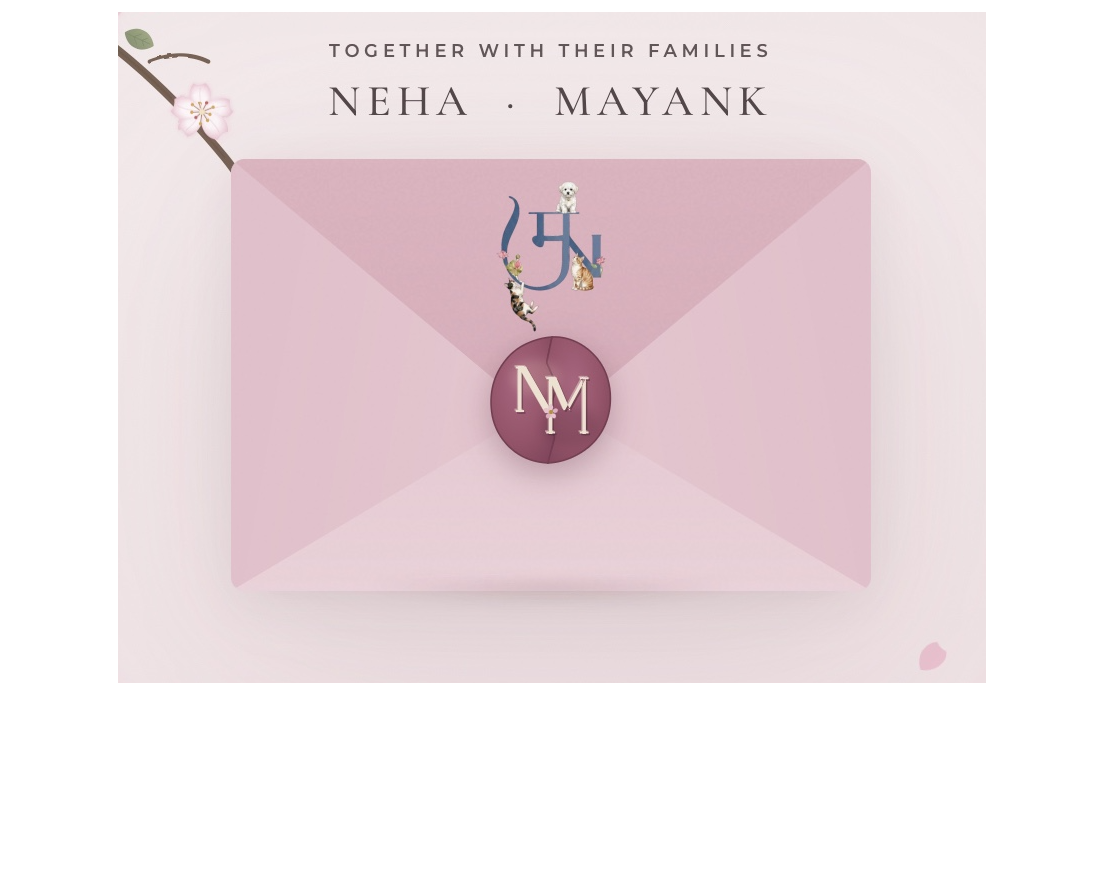
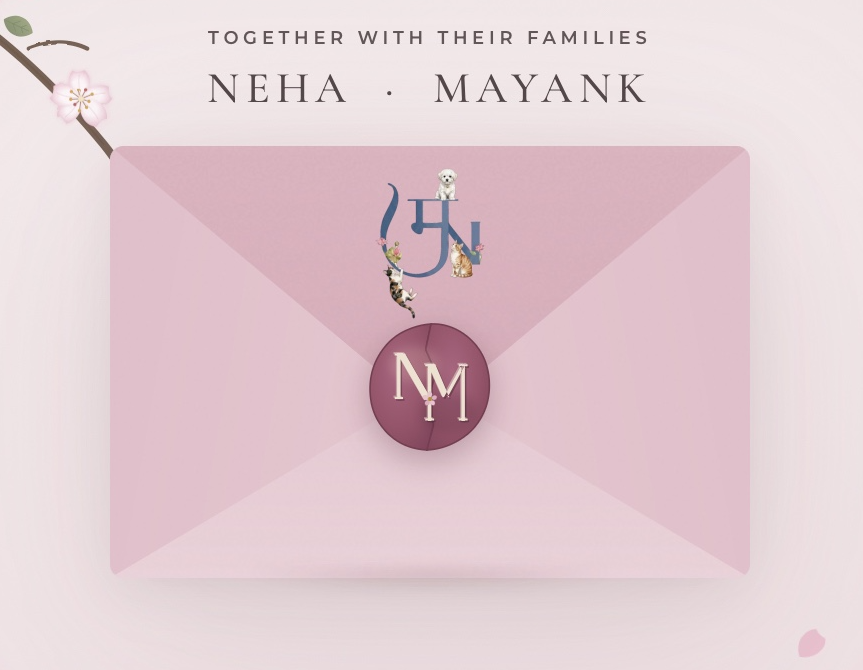
v7.5.4: resync cropped sharing image

diff --git a/index.html b/index.html
@@ -19,10 +19,10 @@
   <meta property="og:description" content="A sundowner wedding on a hilltop overlooking Pawna Lake. 2–3 December 2026.">
   <meta property="og:url" content="https://mayankjainmj.github.io/neha-weds-mayank/">
   <meta property="og:type" content="website">
-  <meta property="og:image" content="https://mayankjainmj.github.io/neha-weds-mayank/img/og-invitation-envelope.png">
+  <meta property="og:image" content="https://mayankjainmj.github.io/neha-weds-mayank/img/og-invitation-envelope.png?v=2">
   <meta property="og:image:type" content="image/png">
-  <meta property="og:image:width" content="1104">
-  <meta property="og:image:height" content="870">
+  <meta property="og:image:width" content="863">
+  <meta property="og:image:height" content="670">
   <meta property="og:image:alt" content="Neha and Mayank's pink wedding invitation envelope with a wax seal and cherry blossoms.">
   <link rel="canonical" href="https://mayankjainmj.github.io/neha-weds-mayank/">
   <link rel="preconnect" href="https://fonts.googleapis.com">

diff --git a/game.html b/game.html
@@ -19,10 +19,10 @@
   <meta property="og:description" content="A sundowner wedding on a hilltop overlooking Pawna Lake. 2–3 December 2026.">
   <meta property="og:url" content="https://mayankjainmj.github.io/neha-weds-mayank/game.html">
   <meta property="og:type" content="website">
-  <meta property="og:image" content="https://mayankjainmj.github.io/neha-weds-mayank/img/og-invitation-envelope.png">
+  <meta property="og:image" content="https://mayankjainmj.github.io/neha-weds-mayank/img/og-invitation-envelope.png?v=2">
   <meta property="og:image:type" content="image/png">
-  <meta property="og:image:width" content="1104">
-  <meta property="og:image:height" content="870">
+  <meta property="og:image:width" content="863">
+  <meta property="og:image:height" content="670">
   <meta property="og:image:alt" content="Neha and Mayank's pink wedding invitation envelope with a wax seal and cherry blossoms.">
   <link rel="preconnect" href="https://fonts.googleapis.com">
   <link rel="preconnect" href="https://fonts.gstatic.com" crossorigin>
